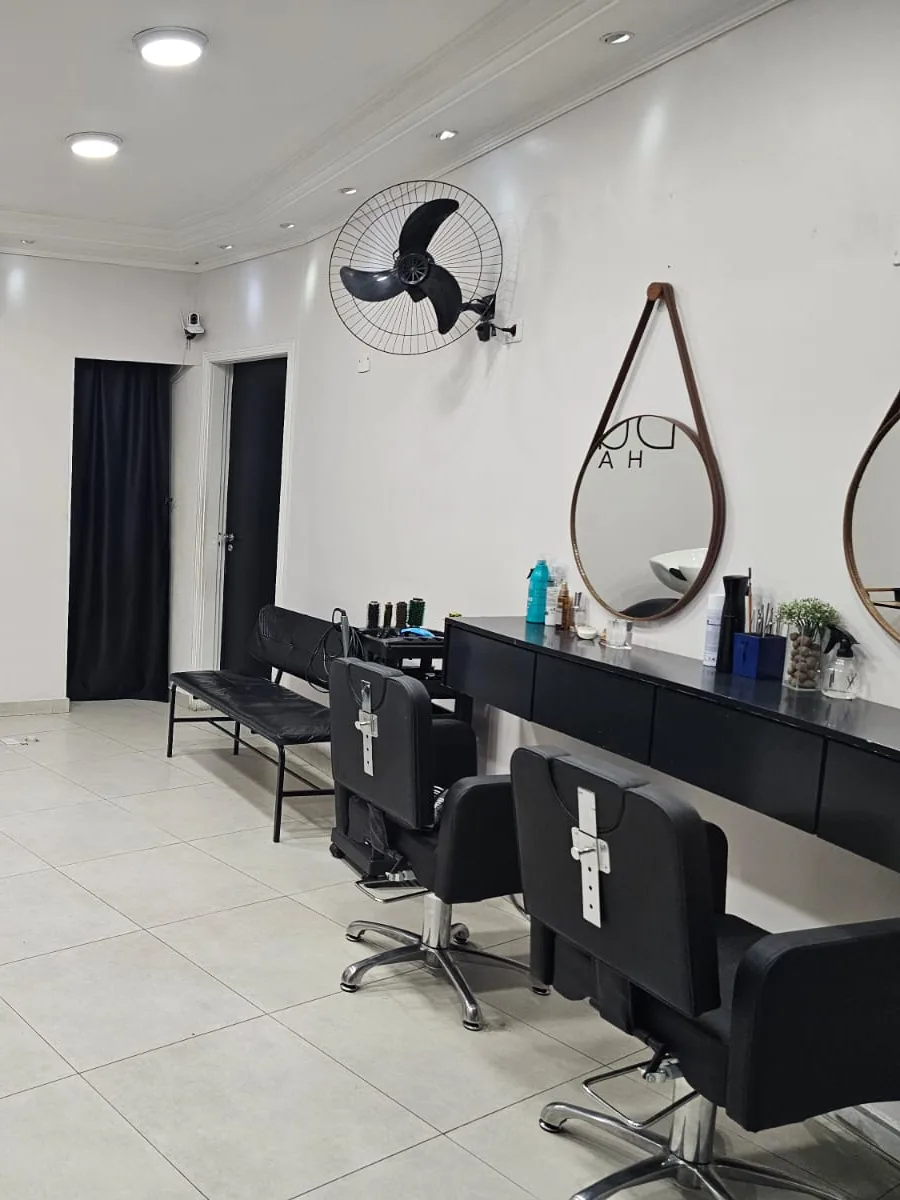
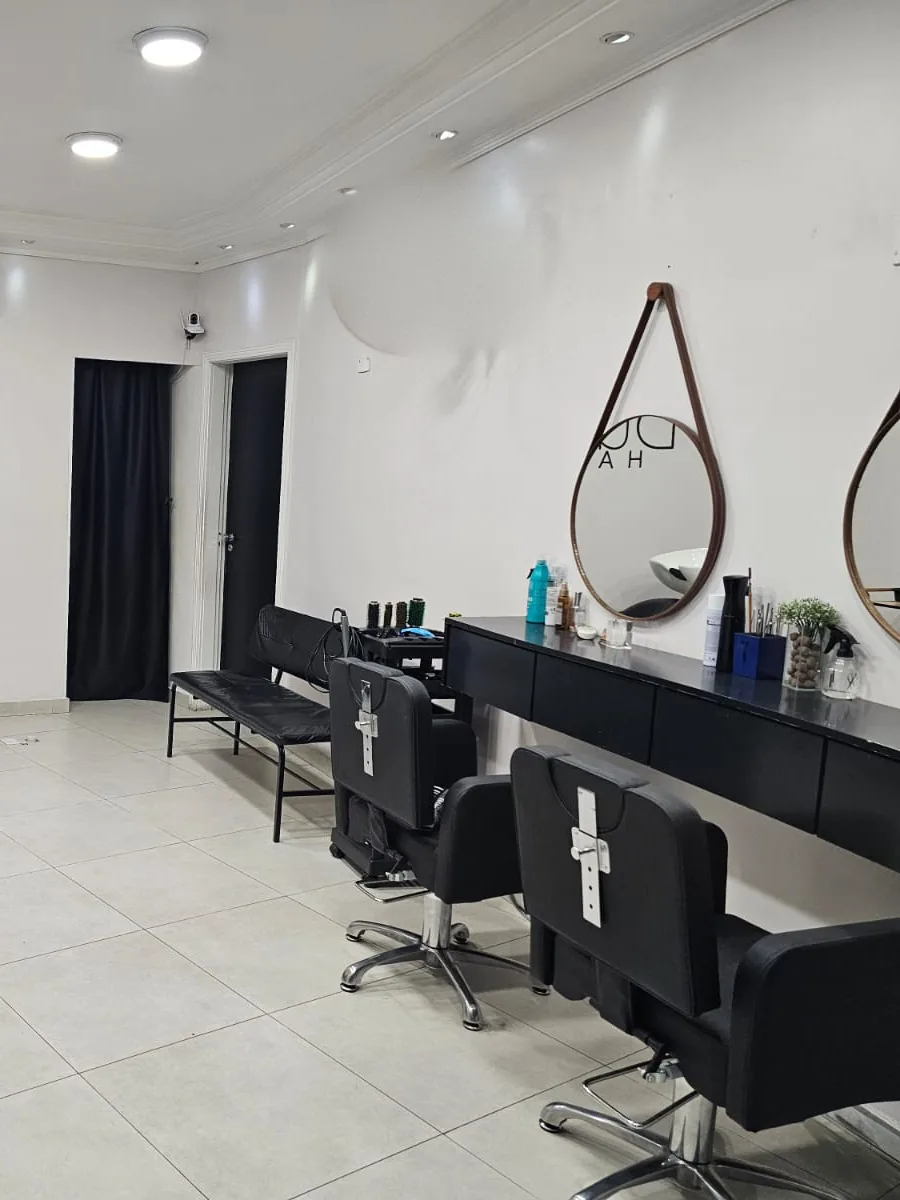
Remove o ventilador de parede da foto do topo
O ventilador puxava o olho para o canto direito e não somava nada para
quem chega pelo anúncio.

O fundo ali é parede lisa, então não precisou de IA: o script novo
scripts/tira-ventilador.py preenche a região resolvendo a equação de
Laplace com as bordas fixas na parede em volta, o que reconstrói o
degradê da iluminação sem emenda visível. No fim entra um grão leve, para
o trecho não ficar liso demais perto do ruído do resto da foto.

Vale para objeto sobre superfície lisa. Fundo com textura ou padrão
pediria outro caminho.

Claude-Session: https://claude.ai/code/session_015S6t1csTKEbVrG6jh5Djkm

Changed region(s): [[0.3733, 0.1542, 0.56, 0.3083]]

diff --git a/scripts/tira-ventilador.py b/scripts/tira-ventilador.py
@@ -1,0 +1,87 @@
+#!/usr/bin/env python3
+"""
+Remove o ventilador de parede da foto do salão.
+
+O fundo ali é parede lisa, então não precisa de IA: a região é preenchida
+resolvendo a equação de Laplace (média iterativa dos vizinhos) com as bordas
+fixas na parede em volta. Numa superfície com iluminação suave isso reconstrói
+o degradê sem emenda visível. No fim entra um grão leve, para o trecho não
+ficar liso demais perto do ruído do resto da foto.
+"""
+
+import os
+import random
+
+import numpy as np
+from PIL import Image, ImageDraw, ImageFilter
+
+BASE = os.path.dirname(os.path.abspath(__file__))
+ENTRADA = os.path.join(BASE, 'fotos', 'salao.jpg')
+SAIDA = os.path.join(BASE, 'fotos', 'salao-sem-ventilador.jpg')
+
+# Região do ventilador na foto de 1600x1200
+GRADE = (1126, 264, 116, 108)          # centro x, centro y, raio x, raio y
+SUPORTE = (1180, 275, 1262, 362)       # braço e base presos na parede
+
+
+def mascara(tamanho):
+    m = Image.new('L', tamanho, 0)
+    d = ImageDraw.Draw(m)
+    cx, cy, rx, ry = GRADE
+    d.ellipse((cx - rx, cy - ry, cx + rx, cy + ry), fill=255)
+    d.rectangle(SUPORTE, fill=255)
+    # borda suave evita emenda dura no encontro com a parede
+    return m.filter(ImageFilter.GaussianBlur(7))
+
+
+def preenche(img, m, passos=3000):
+    a = np.asarray(img, dtype=np.float64)
+    buraco = np.asarray(m, dtype=np.float64)[..., None] / 255.0
+
+    # começa com a média da parede em volta, para convergir mais rápido
+    borda = (buraco[..., 0] > 0.02) & (buraco[..., 0] < 0.98)
+    semente = a[borda].mean(axis=0) if borda.any() else a.mean(axis=(0, 1))
+    x = a * (1 - buraco) + semente * buraco
+
+    dentro = buraco[..., 0] > 0.02
+    ys, xs = np.where(dentro)
+    y0, y1 = ys.min() - 2, ys.max() + 3
+    x0, x1 = xs.min() - 2, xs.max() + 3
+
+    janela = x[y0:y1, x0:x1].copy()
+    fixo = a[y0:y1, x0:x1]
+    peso = buraco[y0:y1, x0:x1]
+
+    for _ in range(passos):
+        vizinhos = np.empty_like(janela)
+        vizinhos[1:-1, 1:-1] = (
+            janela[:-2, 1:-1] + janela[2:, 1:-1] +
+            janela[1:-1, :-2] + janela[1:-1, 2:]
+        ) / 4.0
+        vizinhos[0] = janela[0]; vizinhos[-1] = janela[-1]
+        vizinhos[:, 0] = janela[:, 0]; vizinhos[:, -1] = janela[:, -1]
+        # fora do buraco a foto original manda; dentro, vale a média dos vizinhos
+        janela = fixo * (1 - peso) + vizinhos * peso
+
+    x[y0:y1, x0:x1] = janela
+    return x, dentro
+
+
+def grao(x, dentro, forca=2.2, seed=5):
+    rng = random.Random(seed)
+    h, w = dentro.shape
+    ruido = np.array([[rng.gauss(0, forca) for _ in range(w)] for _ in range(h)])
+    return x + ruido[..., None] * dentro[..., None]
+
+
+def main():
+    img = Image.open(ENTRADA).convert('RGB')
+    m = mascara(img.size)
+    x, dentro = preenche(img, m)
+    x = grao(x, dentro)
+    Image.fromarray(np.clip(x, 0, 255).astype(np.uint8)).save(SAIDA, quality=95, subsampling=0)
+    print('gravado:', SAIDA)
+
+
+if __name__ == '__main__':
+    main()

diff --git a/scripts/recorta-fotos.py b/scripts/recorta-fotos.py
@@ -10,8 +10,8 @@ DEST = '/home/user/LP-Dulce-Hair/assets/img'
 # (arquivo de origem, caixa de recorte, nome de saída)
 CORTES = [
     # hero: o salão. Paisagem no desktop, retrato no celular.
-    ('salao.jpg',       None,                     'hero'),
-    ('salao.jpg',       (700, 0, 1600, 1200),     'hero-mobile'),
+    ('salao-sem-ventilador.jpg', None,            'hero'),
+    ('salao-sem-ventilador.jpg', (700, 0, 1600, 1200), 'hero-mobile'),
     # seção da progressiva: retrato 4:5 fechado no comprimento
     ('progressiva.png', (226, 0, 1095, 1086),     'progressiva'),
     # galeria: retrato 3:4, mesmo formato dos outros dois trabalhos

diff --git a/README.md b/README.md
@@ -224,6 +224,11 @@ O hero usa **duas versões da mesma foto**: uma deitada no desktop e uma em pé 
 celular. Cortar uma foto deitada para uma tela em pé perderia justamente o cabelo.
 Se trocar o hero, gere as duas.
 
+O `scripts/tira-ventilador.py` removeu o ventilador de parede da foto do salão.
+A região é preenchida resolvendo a equação de Laplace com as bordas fixas na
+parede em volta, o que reconstrói o degradê da iluminação sem emenda. Serve para
+qualquer objeto sobre superfície lisa; para fundo com textura ou padrão, não.
+
 O `scripts/generate-textures.py` ficou como reserva: gera fundos abstratos de fios
 em luz dourada para quando faltar foto em algum espaço novo. Os arquivos saem com
 o prefixo `textura-`, então rodar o script nunca sobrescreve uma foto real.
